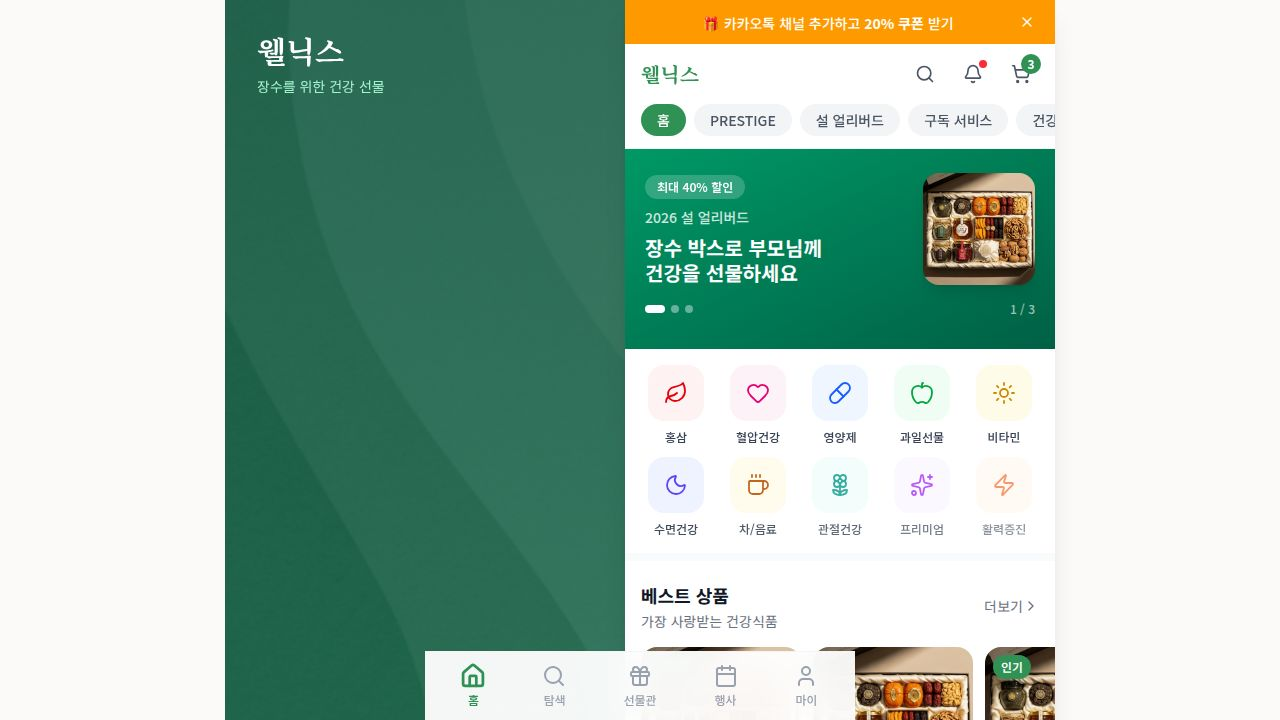
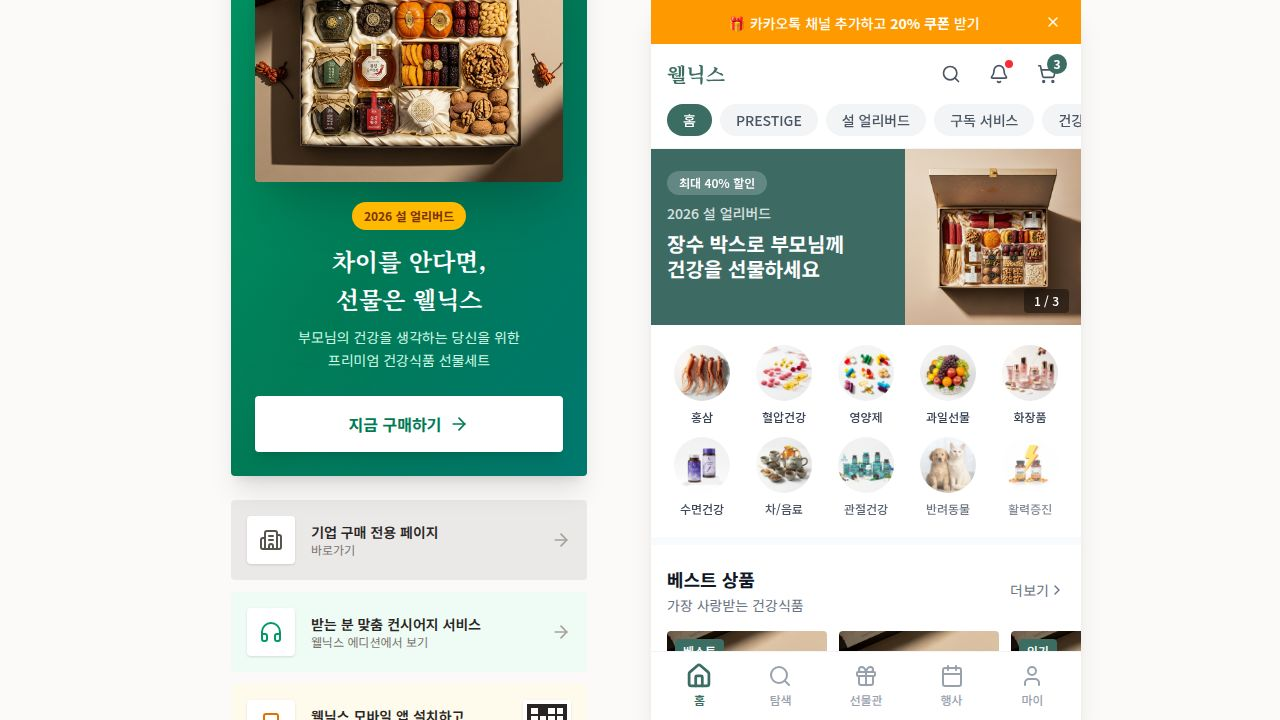
Update website colors to match user's preferred shade of green
Modify primary and accent colors in Tailwind CSS configuration to a specific HSL value (168 30% 33%) and update the hero banner's background gradient to use the new custom hex color #3d6b64.

Replit-Commit-Author: Agent
Replit-Commit-Session-Id: bc3d98a0-998e-4f75-92f7-7ca84c367966
Replit-Commit-Checkpoint-Type: full_checkpoint
Replit-Commit-Event-Id: 7e694877-bcf6-408e-99d0-ede183af9cd0
Replit-Commit-Screenshot-Url: https://storage.googleapis.com/screenshot-production-us-central1/d231b134-7ceb-4650-be16-58a3bee1cfa0/bc3d98a0-998e-4f75-92f7-7ca84c367966/TlHK8Oe
Replit-Helium-Checkpoint-Created: true

diff --git a/client/src/index.css b/client/src/index.css
@@ -72,15 +72,15 @@
   --sidebar: 40 25% 96%;
   --sidebar-foreground: 30 15% 20%;
   --sidebar-border: 40 20% 88%;
-  --sidebar-primary: 155 45% 32%;
+  --sidebar-primary: 168 30% 33%;
   --sidebar-primary-foreground: 0 0% 100%;
   --sidebar-accent: 40 60% 50%;
   --sidebar-accent-foreground: 0 0% 100%;
-  --sidebar-ring: 155 45% 32%;
+  --sidebar-ring: 168 30% 33%;
   --popover: 0 0% 100%;
   --popover-foreground: 30 15% 15%;
   --popover-border: 40 20% 88%;
-  --primary: 155 45% 32%;
+  --primary: 168 30% 33%;
   --primary-foreground: 0 0% 100%;
   --secondary: 40 25% 94%;
   --secondary-foreground: 30 15% 25%;
@@ -91,14 +91,14 @@
   --destructive: 0 72% 51%;
   --destructive-foreground: 0 0% 100%;
   --input: 40 20% 88%;
-  --ring: 155 45% 32%;
-  --chart-1: 155 45% 32%;
+  --ring: 168 30% 33%;
+  --chart-1: 168 30% 33%;
   --chart-2: 35 85% 55%;
   --chart-3: 30 70% 45%;
   --chart-4: 200 60% 50%;
   --chart-5: 280 50% 55%;
 
-  --wellnix-green: 155 45% 32%;
+  --wellnix-green: 168 30% 33%;
   --wellnix-gold: 35 85% 55%;
   --wellnix-cream: 40 30% 96%;
   --wellnix-brown: 30 25% 30%;

diff --git a/client/src/components/HeroBanner.tsx b/client/src/components/HeroBanner.tsx
@@ -9,7 +9,7 @@ const banners = [
     subtitle: "장수 박스로 부모님께\n건강을 선물하세요",
     badge: "최대 40% 할인",
     image: giftSetImage,
-    bgColor: "bg-gradient-to-br from-teal-700 to-teal-900",
+    bgColor: "bg-[#3d6b64]",
   },
   {
     id: 2,
